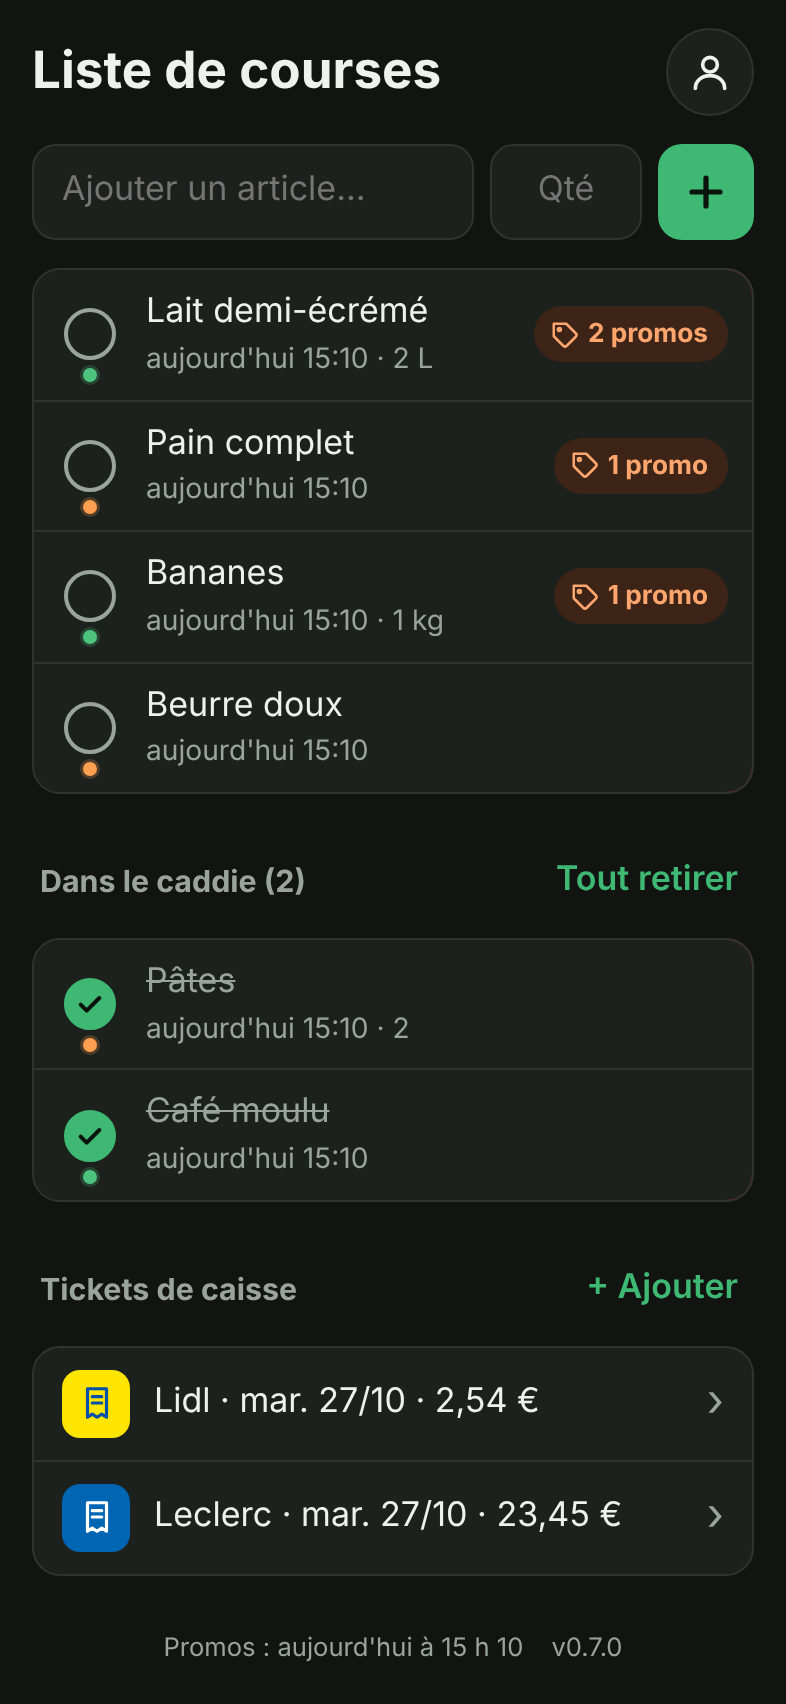
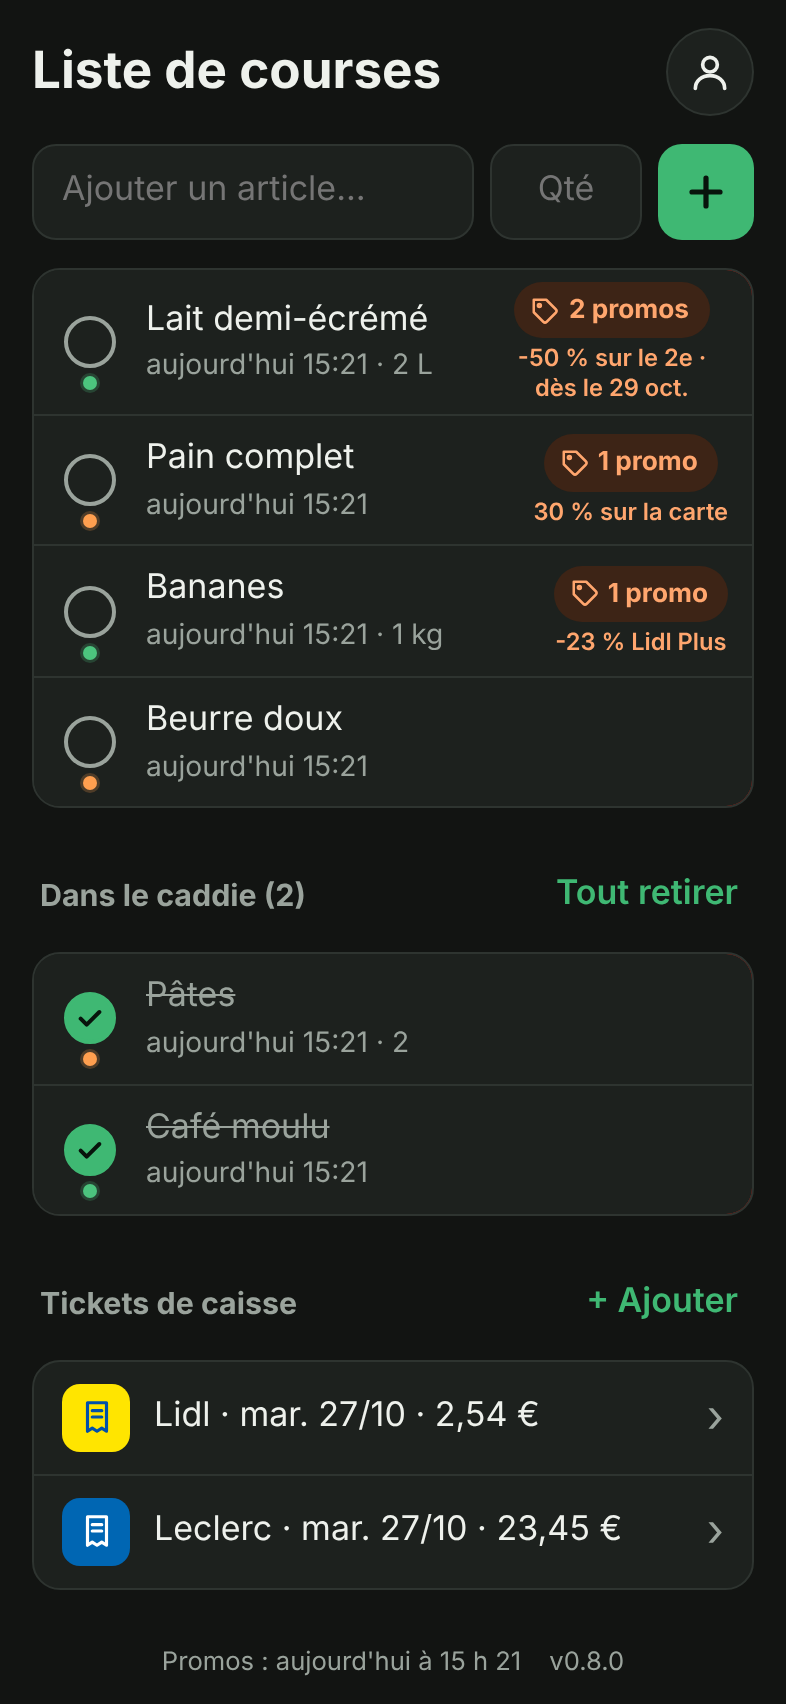
Appli 0.8 : le type de promo écrit dans la liste
Sous l'étiquette « 2 promos », en petit, le type de la meilleure promo,
sans avoir à l'ouvrir : « -60 % sur le 2e » (en prenant plusieurs),
« -20 % en caisse », « 30 % sur la carte » (Ticket E.Leclerc),
« -25 % avec la carte », « -23 % Lidl Plus », ou le prix ; « dès le
29 oct. » pour une promo à venir. Tests, captures et documentation.

Claude-Session: https://claude.ai/code/session_01NExQydJf7Spos4MHk3nxW4

diff --git a/app/tests/promos.test.js b/app/tests/promos.test.js
@@ -22,6 +22,7 @@ import {
   regrouper,
   resumeDescription,
   sourcesEnDifficulte,
+  typePromo,
 } from "../src/promos.js";
 
 // Les espaces insécables des nombres et des dates françaises deviennent de simples espaces.
@@ -299,6 +300,43 @@ describe("explicationPrix : où va la réduction", () => {
 
   test("sans réduction : le prix du catalogue", () => {
     expect(explicationPrix(offre({ prix: 12.49 }))).toMatchObject({ genre: "aucun", avantage: null });
+  });
+});
+
+describe("typePromo : le type de promo, en quelques mots, pour la liste", () => {
+  const type = (champs) => simple(typePromo(offre(champs)));
+
+  test("en prenant plusieurs : la réduction du lot", () => {
+    const lot = { quantite: 2, prix: 3.15, prix_unitaire: 2.76 };
+    expect(type({ source: "leclerc", prix: 2.25, reduction: "-60 % sur le 2e", lot })).toBe("-60 % sur le 2e");
+    expect(type({ source: "leclerc", prix: 0.95, reduction: "2 + 1 offert", lot })).toBe("2 + 1 offert");
+    expect(type({ source: "leclerc", prix: 0.95, lot })).toBe("En prenant plusieurs");
+  });
+
+  test("en caisse, avec la carte, sur la carte E.Leclerc, avec Lidl Plus", () => {
+    expect(type({ source: "leclerc", prix: 2.15, ancien_prix: 2.69, reduction: "-20 %" })).toBe("-20 % en caisse");
+    expect(type({ prix: 0.75, ancien_prix: 1 })).toBe("-25 % en caisse"); // calculé d'après l'ancien prix
+    expect(type({ source: "leclerc", prix: 5.25, ancien_prix: 7, reduction: "-25 %", carte_fidelite: true })).toBe(
+      "-25 % avec la carte",
+    );
+    expect(
+      type({
+        source: "leclerc",
+        prix: 2.76,
+        ancien_prix: 3.95,
+        reduction: "30 % en Ticket E.Leclerc",
+        carte_fidelite: true,
+      }),
+    ).toBe("30 % sur la carte");
+    expect(type({ prix: 1.29, ancien_prix: 1.69, reduction: "-23 % avec Lidl Plus", carte_fidelite: true })).toBe(
+      "-23 % Lidl Plus",
+    );
+    expect(type({ prix: 0.99, carte_fidelite: true })).toBe("Prix Lidl Plus");
+  });
+
+  test("sans réduction particulière : le prix", () => {
+    expect(type({ prix: 12.49 })).toBe("12,49 €");
+    expect(type({ prix: null })).toBe("Prix du catalogue");
   });
 });
 

diff --git a/app/src/promos.js b/app/src/promos.js
@@ -452,6 +452,35 @@ export function explicationPrix(offre) {
 }
 
 /**
+ * Le type de promo, en quelques mots, pour la liste : « -60 % sur le 2e », « -20 % en caisse »,
+ * « 30 % sur la carte », « -23 % Lidl Plus »… ; sans réduction particulière, le prix.
+ */
+export function typePromo(offre) {
+  const reduction = (offre.reduction ?? "").replace(/\s*avec Lidl Plus$/i, "").trim();
+  const { genre } = explicationPrix(offre);
+  // Sans réduction écrite, le pourcentage d'après l'ancien prix.
+  const pourcentage =
+    reduction ||
+    (offre.ancien_prix > 0 && offre.prix != null ? `-${Math.round((1 - offre.prix / offre.ancien_prix) * 100)} %` : "");
+  switch (genre) {
+    case "carte-leclerc": {
+      const detail = reduction.replace(/\s*en Ticket E\.Leclerc/i, "");
+      return detail ? `${detail} sur la carte` : "Sur la carte E.Leclerc";
+    }
+    case "lidl-plus":
+      return pourcentage ? `${pourcentage} Lidl Plus` : "Prix Lidl Plus";
+    case "lot":
+      return reduction || "En prenant plusieurs";
+    case "carte-caisse":
+      return pourcentage ? `${pourcentage} avec la carte` : "Avec la carte E.Leclerc";
+    case "caisse":
+      return pourcentage ? `${pourcentage} en caisse` : "Prix réduit";
+    default:
+      return offre.prix != null ? formaterPrix(offre.prix) : "Prix du catalogue";
+  }
+}
+
+/**
  * La description d'une promo sans ce qui répète le prix (prix au kilo, « Par 2 : … », « au lieu
  * de … ») : « 4 tranches. 140 g.Le kg : 11,36 €.Par 2 (280 g) : 2,38 € au lieu de 3,18 € » →
  * « 4 tranches · 140 g ».

diff --git a/app/src/main.js b/app/src/main.js
@@ -37,8 +37,10 @@ import {
   phraseSource,
   phrasesFraicheur,
   rechercherPromos,
+  periodeCourte,
   resumeDescription,
   sourcesEnDifficulte,
+  typePromo,
 } from "./promos.js";
 import {
   MAGASINS_TICKET,
@@ -263,10 +265,13 @@ function ligneArticle(article, promos = []) {
 }
 
 function boutonPromos(article, promos) {
+  // Sous l'étiquette, le type de la meilleure promo : « -60 % sur le 2e », « -20 % en caisse »…
+  const { offre, aVenir } = promos[0];
+  const type = [typePromo(offre), aVenir ? periodeCourte(offre, dateDuJour()) : null].filter(Boolean).join(" · ");
   const bouton = document.createElement("button");
   bouton.type = "button";
   bouton.className = "bouton-promos";
-  bouton.setAttribute("aria-label", `Voir ${pluriel(promos.length, "promo")} pour ${article.nom}`);
+  bouton.setAttribute("aria-label", `Voir ${pluriel(promos.length, "promo")} pour ${article.nom} : ${type}`);
   const pastille = document.createElement("span");
   pastille.className = "pastille";
   pastille.innerHTML =
@@ -274,7 +279,10 @@ function boutonPromos(article, promos) {
     '<path d="M20.6 13.4l-7.2 7.2a2 2 0 0 1-2.8 0L3 13V3h10l7.6 7.6a2 2 0 0 1 0 2.8z" />' +
     '<circle cx="7.5" cy="7.5" r="1.2" /></svg>';
   pastille.append(pluriel(promos.length, "promo"));
-  bouton.append(pastille);
+  const legende = document.createElement("span");
+  legende.className = "type-promo";
+  legende.textContent = type;
+  bouton.append(pastille, legende);
   bouton.addEventListener("click", () => ouvrirPromos(article, promos));
   return bouton;
 }

diff --git a/app/e2e/promos.spec.js b/app/e2e/promos.spec.js
@@ -26,6 +26,9 @@ test("les articles en promo sont signalés, avec le détail de chaque promo", as
   await expect(ligne(page, "Lait").first().getByRole("button", { name: "Voir 3 promos pour Lait" })).toBeVisible();
   await expect(ligne(page, "Beurre").locator(".bouton-promos")).toHaveCount(0);
   await expect(page.getByRole("button", { name: "Voir 1 promo pour Laitue" })).toBeVisible();
+  // Sous l'étiquette, le type de la meilleure promo, sans avoir à l'ouvrir.
+  await expect(ligne(page, "Lait").first().locator(".type-promo")).toHaveText(/^-50 % sur le 2e · dès le \d/);
+  await expect(ligne(page, "Laitue").locator(".type-promo")).toHaveText("0,79 €");
 
   // Le détail : les plus proches d'abord, Leclerc avant Lidl.
   await page.getByRole("button", { name: "Voir 3 promos pour Lait" }).click();
@@ -71,6 +74,8 @@ test("le prix dit clairement où va la réduction : carte E.Leclerc ou Lidl Plus
   await seConnecter(page, COMPTES.un);
   await ajouter(page, "Pain complet");
   await ajouter(page, "Bananes");
+  await expect(ligne(page, "Pain complet").locator(".type-promo")).toHaveText("30 % sur la carte");
+  await expect(ligne(page, "Bananes").locator(".type-promo")).toHaveText("-23 % Lidl Plus");
 
   await page.getByRole("button", { name: "Voir 1 promo pour Pain complet" }).click();
   const pain = page.getByRole("dialog", { name: "Promos pour « Pain complet »" }).locator(".promo");

diff --git a/app/src/style.css b/app/src/style.css
@@ -570,10 +570,22 @@ svg {
   flex: 0 0 auto;
   display: grid;
   place-items: center;
-  padding: 0 12px 0 4px;
+  align-content: center;
+  gap: 3px;
+  max-width: 132px;
+  padding: 6px 12px 6px 4px;
   border: 0;
   background: none;
   cursor: pointer;
+}
+
+/* Sous l'étiquette : le type de promo, en petit (« -60 % sur le 2e »). */
+.type-promo {
+  color: var(--promo);
+  font-size: 0.74rem;
+  font-weight: 600;
+  line-height: 1.2;
+  text-align: center;
 }
 
 .pastille {

diff --git a/docs/appli.md b/docs/appli.md
@@ -88,7 +88,11 @@ liste**, sous le caddie, et visibles sur les deux téléphones.
 Chaque matin, le robot range dans [`promos.json`](../promos.json) toutes les promos de Lidl
 Lingolsheim et d'E.Leclerc Geispolsheim. L'appli lit ce fichier et le compare à la liste :
 
-- un article **à acheter** qui est en promo porte une étiquette orange **« 2 promos »** ;
+- un article **à acheter** qui est en promo porte une étiquette orange **« 2 promos »**, et dessous,
+  en petit, le **type de la meilleure promo**, sans avoir à l'ouvrir : « -60 % sur le 2e » (en
+  prenant plusieurs), « -20 % en caisse », « 30 % sur la carte » (Ticket E.Leclerc), « -25 % avec
+  la carte », « -23 % Lidl Plus », ou le prix s'il n'y a pas de réduction particulière ; « dès le
+  29 oct. » s'ajoute pour une promo qui n'a pas encore commencé ;
 - en touchant l'étiquette, on voit **chaque promo** : le magasin (Lidl en jaune, Leclerc en bleu), le
   produit et sa marque, l'essentiel de sa description (« 272 g · Goût nature… », sans les prix
   répétés), le prix et le prix au kilo, **jusqu'à quand** elle dure, et **où va la réduction** (voir

diff --git a/README.md b/README.md
@@ -102,7 +102,8 @@ Une appli web pensée pour l'iPhone, publiée gratuitement par GitHub Pages :
 - **Qui et quand** : une petite pastille de couleur sous le rond à cocher dit qui a ajouté l'article
   (chacun choisit son prénom et sa couleur dans « Mon compte ») ; sous le nom, la date et l'heure
   d'ajout.
-- **Promos** : un article en promo chez Lidl ou Leclerc porte une étiquette « 2 promos ». En la
+- **Promos** : un article en promo chez Lidl ou Leclerc porte une étiquette « 2 promos », avec
+  dessous le type de promo (« -60 % sur le 2e », « 30 % sur la carte »…). En la
   touchant, on voit chaque promo : magasin, prix, prix au kilo, jusqu'à quand (ou à partir de quand)
   et, en clair, **où va la réduction** : déjà déduite en caisse, en prenant plusieurs, rendue sur la
   carte E.Leclerc (Ticket E.Leclerc) ou avec l'appli Lidl Plus. **Leclerc d'abord**, notre magasin

diff --git a/CHANGELOG.md b/CHANGELOG.md
@@ -28,7 +28,11 @@ Tant que le projet est en `0.x`, il est en construction : le format peut encore 
 - Tickets gardés dans Firestore, sur l'offre gratuite (collection `tickets`, fichier découpé en
   morceaux de moins de 1 Mio), jamais dans ce dépôt : voir
   [docs/liste-commune.md](docs/liste-commune.md#collection-tickets--les-tickets-de-caisse).
-- Tests : 9 tests de logique, 6 tests des règles et 5 scénarios réels de plus ; captures.
+- **Le type de promo dans la liste** : sous l'étiquette « 2 promos », en petit, le type de la
+  meilleure promo, sans avoir à l'ouvrir : « -60 % sur le 2e », « -20 % en caisse », « 30 % sur la
+  carte », « -25 % avec la carte », « -23 % Lidl Plus », ou le prix ; « dès le 29 oct. » pour une
+  promo à venir.
+- Tests : 12 tests de logique, 6 tests des règles et 5 scénarios réels de plus ; captures.
 
 ### Sécurité
 
